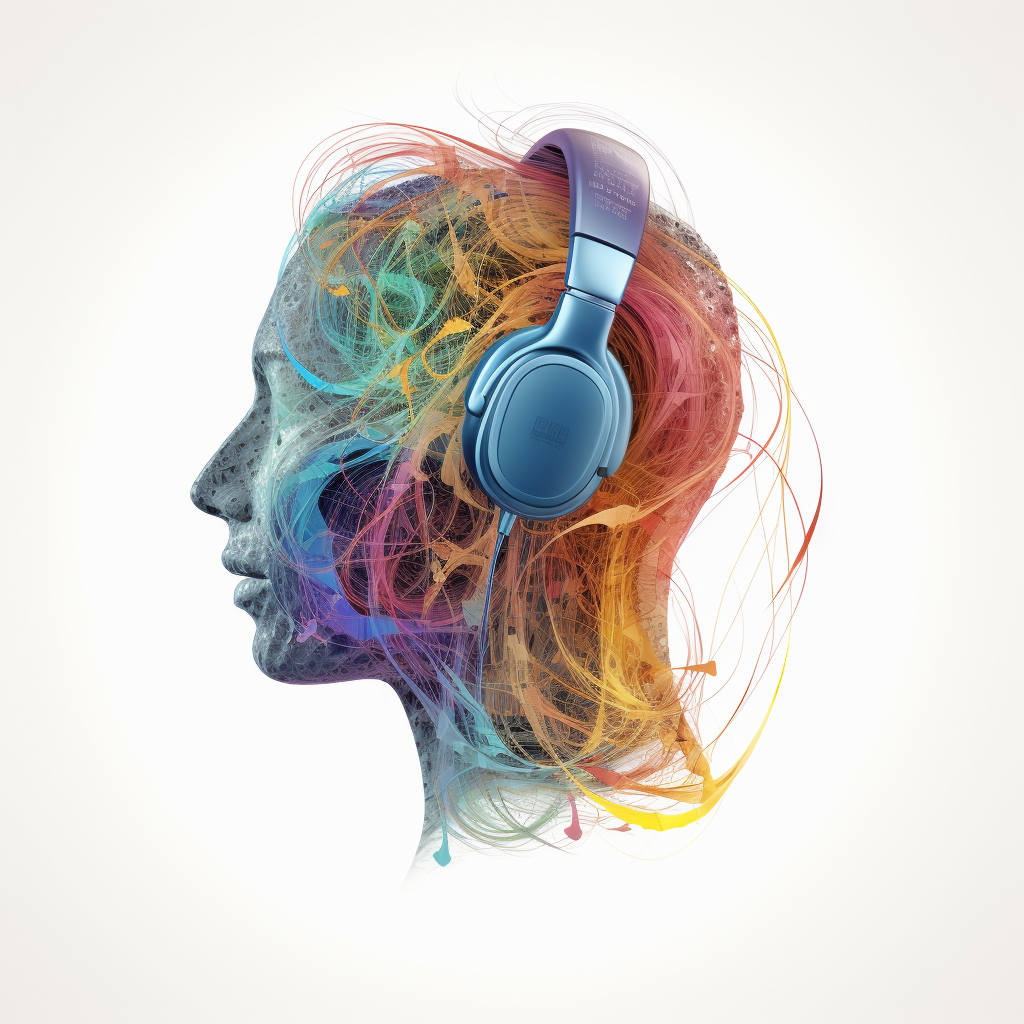
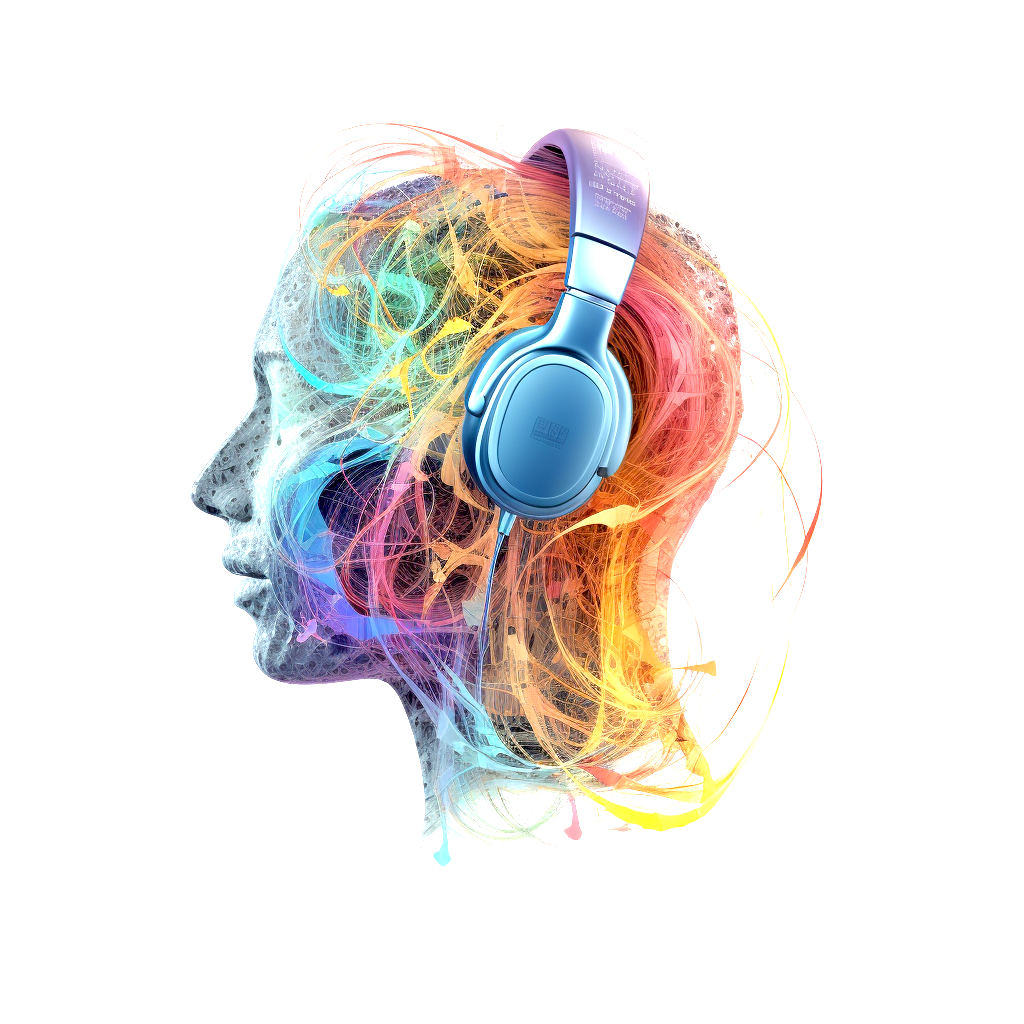
added an image

Changed region(s): [[0.1875, 0.125, 0.8125, 0.8438]]

diff --git a/_posts/2021-10-17-topic.md b/_posts/2021-10-17-topic.md
@@ -3,7 +3,11 @@ layout: post
 title: Computational models
 ---
 
-Computational models can help us to express our ideas about musical processes in a precise way that offers precise ways to test and explore these ideas. 
+<img align="right" src="../images/computational_models.png" width=240 alt="Emotion and music perception" hspace="8"/>
+
+Computational music research is a field that combines psychology, music theory, and computer science to study various aspects of music, such as perception, and cognition of music. 
+
+Computational models can help us to express our ideas about musical processes in a precise way that offers precise ways to test and explore these ideas. I have explored how we perceive melodies, especially melodic expectations, timbre, emotions expressed by music, consonance and dissonance, and rhythm and entrainment.
 
 #### Recent papers related to computational models
 
